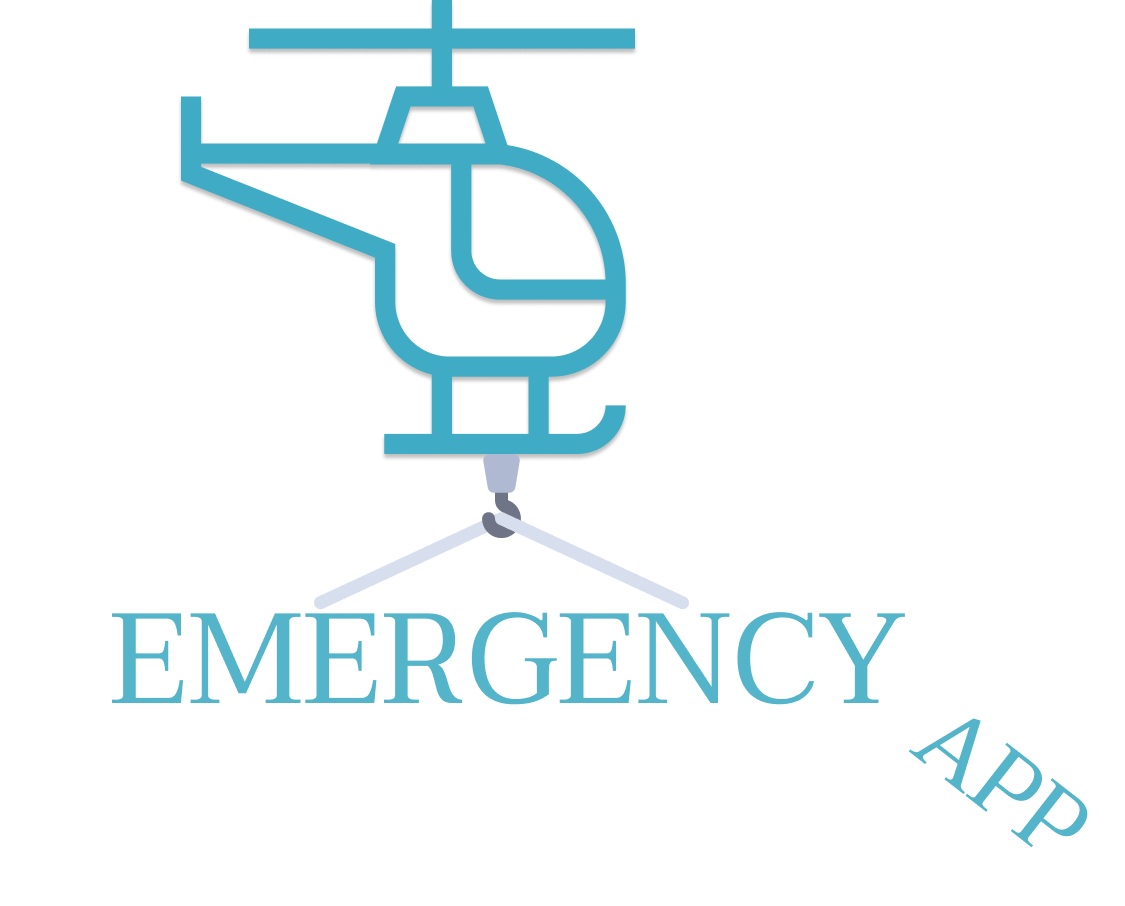
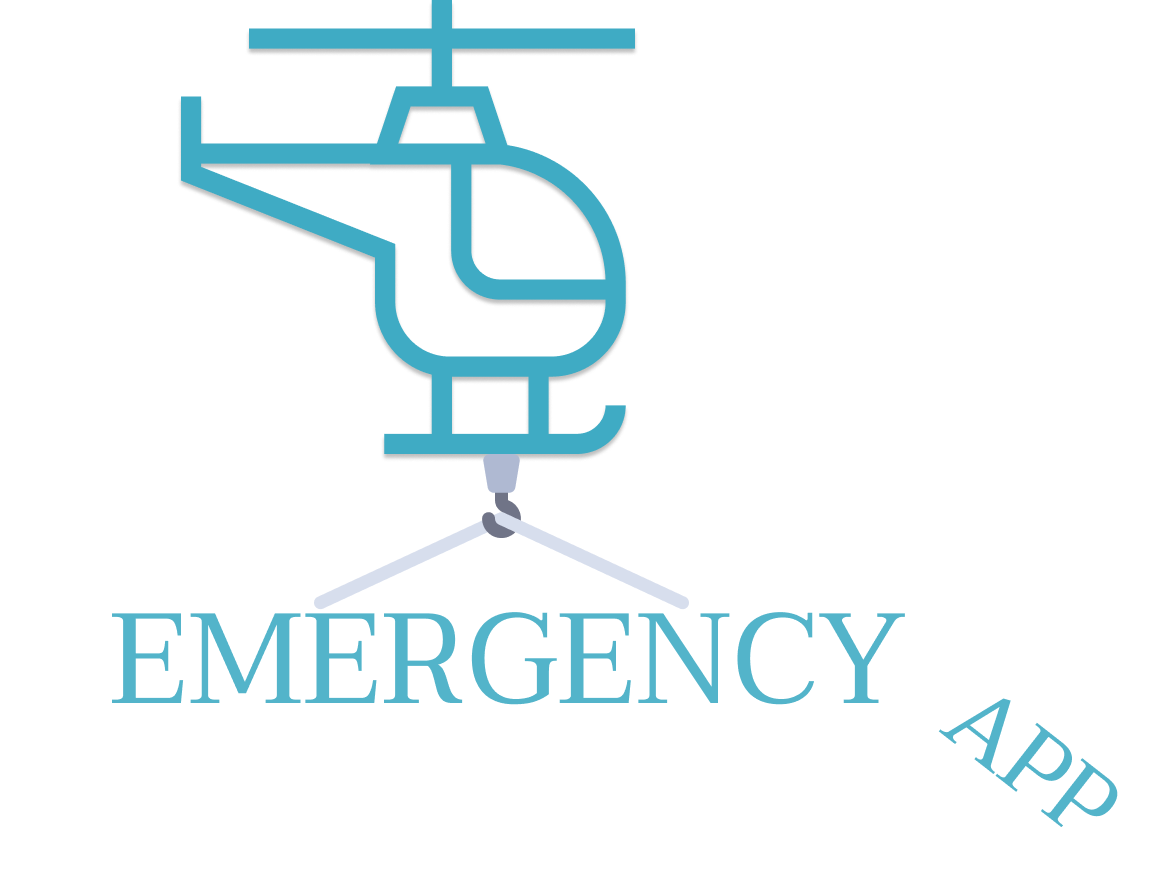
act 15

Changed region(s): [[0.0933, 0.0, 0.8089, 0.7923], [0.8089, 0.7923, 0.9644, 0.9447]]

diff --git a/index.html b/index.html
@@ -5,7 +5,7 @@
     <meta charset="UTF-8">
     <meta name="viewport" content="width=device-width, initial-scale=1.0">
     <title>Landing page</title>
-    <link rel="stylesheet" href="styles.css">
+    <link rel="stylesheet" href="/css/style.css">
 
 
 
@@ -13,10 +13,10 @@
 
 <body>
     <header class="header">
-        <a href="index.html"><img src="/image/emergency-app.png" alt="Logo Inicio"></a>
+        <a  href="index.html"><img class="header__logo" src="/image/emergency-app.png" alt="Logo Inicio"></a>
     </header>
     <main>
-        <img class="image" src="/image/mapa-mundo.png" alt="plano imagen del mundo">
+        
     </main>
 
 </body>

diff --git a/css/style.css b/css/style.css
@@ -3,11 +3,11 @@
     padding: 0;
     box-sizing: border-box;
 }
-
-.image{
-    background-size: cover ;
-    background-attachment: fixed;
-    opacity: 0.9;
-    width: 100vw;
-    height: 100vh;
+.header{
+    display: flex;
+    justify-content: center;
+}
+.header__logo{
+    
+    width: 100px;
 }
